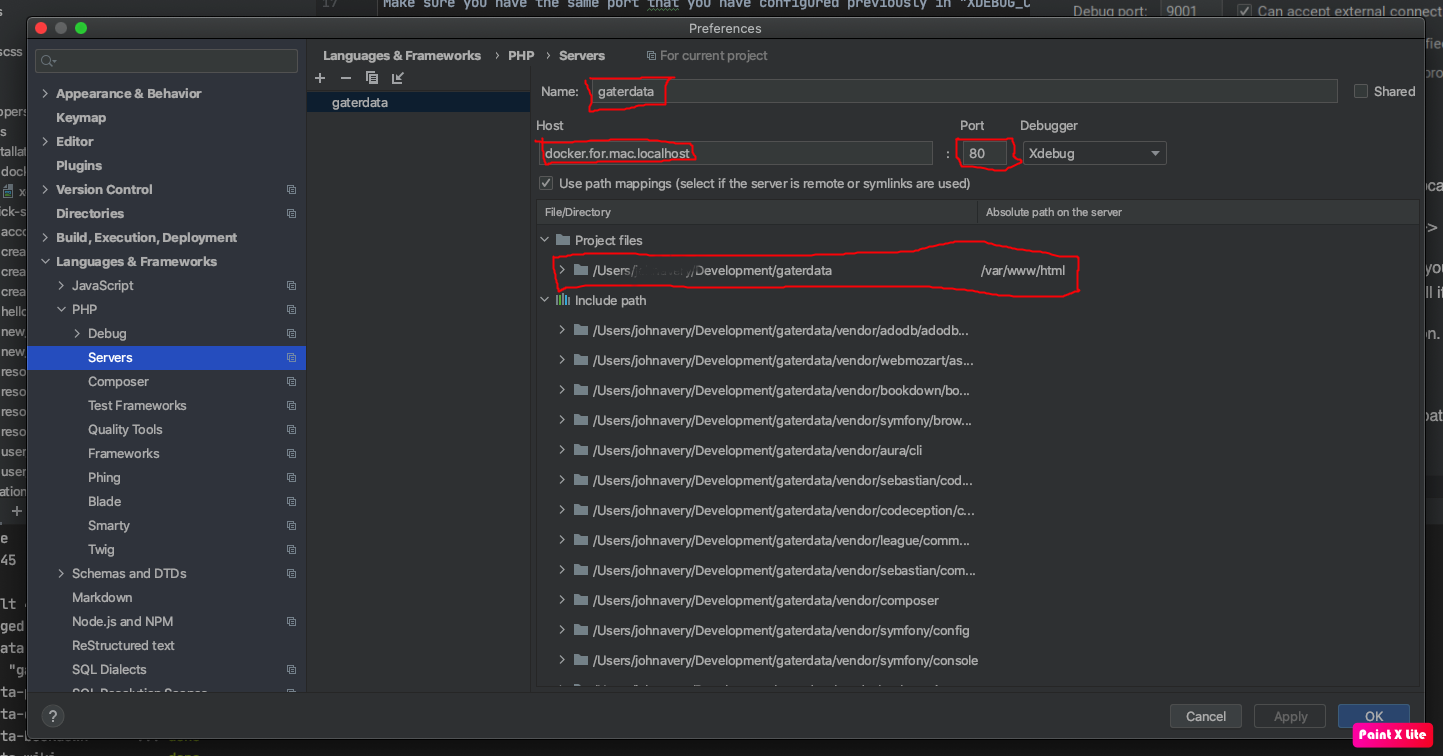
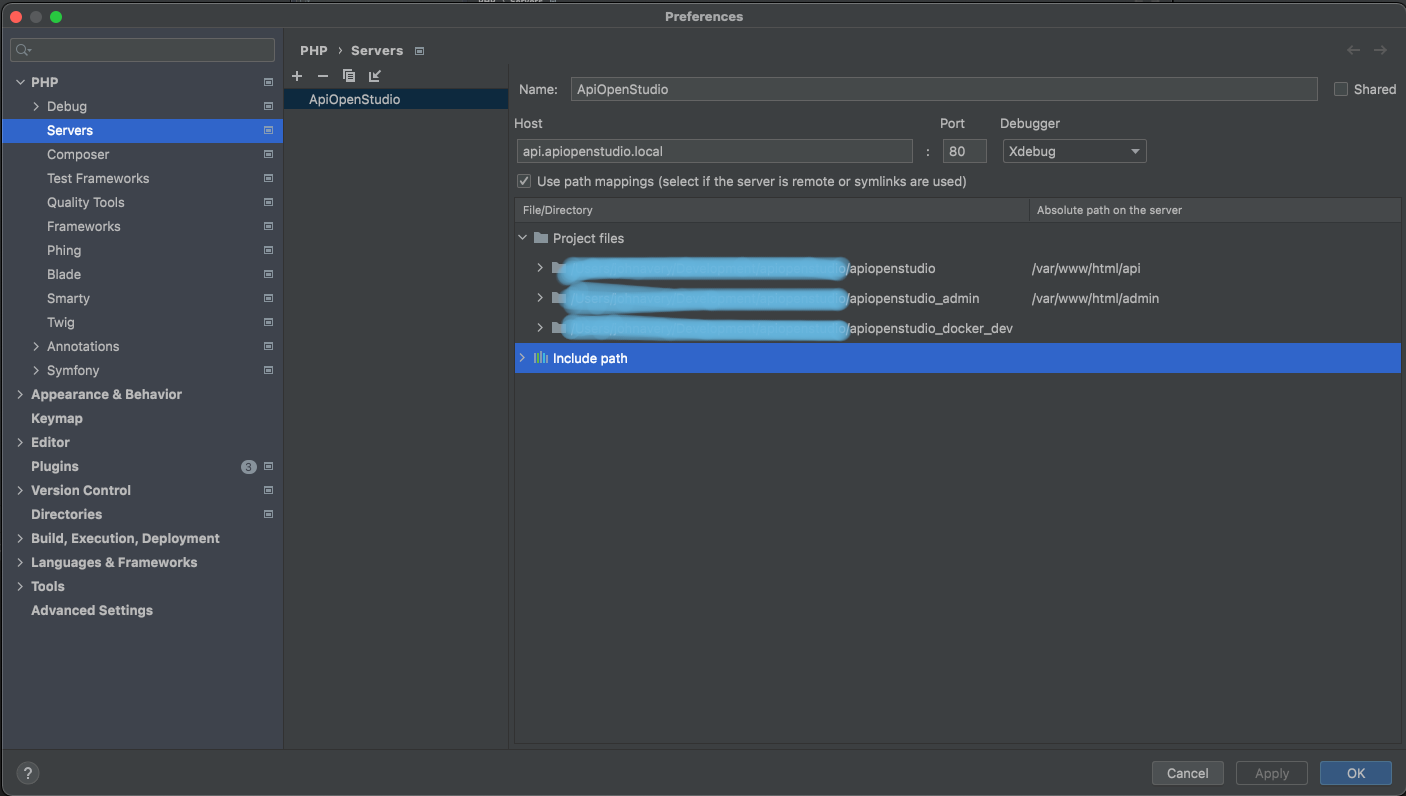
#91 Update Xdebug notes in the wiki.

diff --git a/includes/wiki/developers/xdebug.md b/includes/wiki/developers/xdebug.md
@@ -1,69 +1,73 @@
 Configure Xdebug in PhpStorm
 ============================
 
-Turn on xDebug in ```.env```:
+The following assumes that you are using
+[apiopenstudio_docker_dev](https://gitlab.com/apiopenstudio/apiopenstudio_docker_dev).
+
+Enable Xdebug in docker
+-----------------------
+
+The dockerfile is configured toi create a build from ```php:n.n-fpm```,
+and you can enable the build to include the xDebug packages using a simple
+environment variable,
+
+Turn on Xdebug in ```.env``` in your checkout of
+[apiopenstudio_docker_dev](https://gitlab.com/apiopenstudio/apiopenstudio_docker_dev):
 
     WITH_XDEBUG=true
 
-rebuild your docker containers
+Rebuild your docker containers
 
     docker-compose build
+
+Or
+
+    docker-compose up -d --build
 
 PHPStorm configurations
 -----------------------
 
-### Set the port defined in .env
+### Set the port
 
-In PhpStorm, go to PhpStorm -> Preferences -> Languages and Frameworks -> PHP ->
-Debug.
-
-Make sure you have the same port that you have configured previously in "
-XDEBUG_CONFIG" environment variable:
+In PhpStorm, go to PhpStorm -> Preferences -> PHP -> Debug.
 
 ![Set xDebug port][set_xdebug_port]
 
 ### Configure a server.
 
-This is how PHPStorm will map the file paths in your local system to the ones in
-your container.
+This is how PHPStorm will map the local file paths to the ones in your
+container.
 
-Go to File -> Settings -> Languages and Frameworks -> PHP -> Servers
+Go to File -> Settings -> PHP -> Servers
 
 ![Configure the xDebug server][xdebug_server]
 
-Give a name to the server. It should match the value you have defined in your "
-PHP_IDE_CONFIG" environment variable, i.e. "apiopenstudio".
+Give a name to the server. It should be a recognisable name, so you can identify
+it later, i.e. "apiopenstudio".
 
-The "host" and "port" is how will access your application. In this case is the
-host is a mac, in other cases, you should use "localhost". The default port for
-xdebug 3 is now 9003.
-
-Set the path mappings to map your local environment project to "/var/www/html"
-in docker.
+Ensure you have "Use path mappings" checked, and edit the RHS to
+```/var/www/html/api```.
 
 Click "Apply" to save your configurations.
 
-### Configure the remote debugger
+Configuring Xdebug for ApiOpenStudio Admin
+------------------------------------------
 
-On the top right, click on "edit configurations":
+Depending on how you have set up your projects, and you have admin in a
+separate project, you will also need to set up servers as above, for your admin
+project.
 
-Click in the green "plus" sign at the top left and select "PHP Remote Debug"
-from the list.
+The remote paty mapping will be ```/var/www/html/admin```.
 
-Now configure it like this:
+Links
+-----
 
-![Configure the xDebug remote debugger][xdebug_remote_debug]
-
-Make sure you associate it with the previously created "server" definition.
-Use "PHPSTORM" as idekey.
-
-Your IDE should be now correctly configured. Lets test.
-
-## Links
-
-* [docker-phpstorm-and-xdebug-the-definitive-guide-14og][the_definitive_guide]
+* [Setup Step Debugging in PHP with Xdebug 3 and Docker Compose][setup_step_debugging_php_xdebug3_docker]
+* [Create a PHP debug server configuration][creating_a_php_debug_server_configuration]
+* [Conditional COPY/ADD in Dockerfile?][conditional_copy_add_in_dockerfile]
 
 [set_xdebug_port]: images/xdebug_port.png
 [xdebug_server]: images/xdebug_server.png
-[xdebug_remote_debug]: images/xdebug_remote_debug.png
-[the_definitive_guide]: https://dev.to/brpaz/docker-phpstorm-and-xdebug-the-definitive-guide-14og
+[setup_step_debugging_php_xdebug3_docker]: https://matthewsetter.com/setup-step-debugging-php-xdebug3-docker
+[creating_a_php_debug_server_configuration]: https://www.jetbrains.com/help/phpstorm/creating-a-php-debug-server-configuration.html
+[conditional_copy_add_in_dockerfile]: https://www.py4u.net/discuss/1621084
